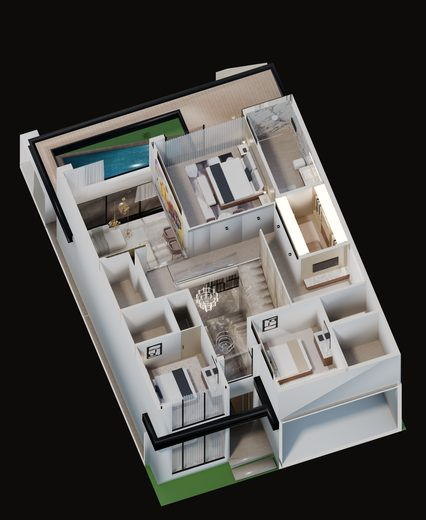
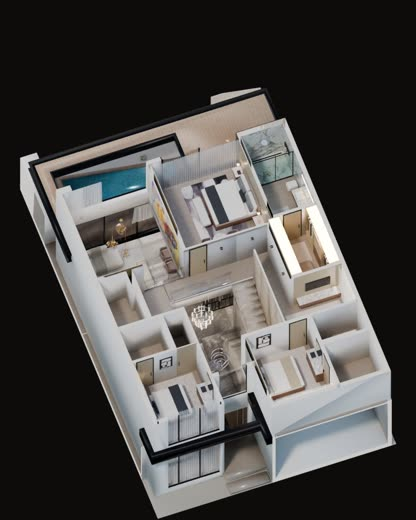
Maqueta giratoria también en la planta alta

diff --git a/media/maqueta/puntos.js b/media/maqueta/puntos.js
@@ -1,2 +1,2 @@
 // Posición de cada espacio en cada cuadro de la maqueta giratoria, en porcentaje [x, y]. Lo genera giro_web.py.
-window.MAQUETA_GIRO={"n":40,"baja":[{"hall":[50.08,62.8],"sala":[33.54,46.1],"comedor":[47.24,41.8],"cocina":[60.44,37.59],"terraza":[40.26,25.72],"dormitorio-1":[43.47,75.33]},{"hall":[52.39,62.63],"sala":[33.04,48.38],"comedor":[45.8,42.28],"cocina":[58.07,36.33],"terraza":[36.0,27.34],"dormitorio-1":[48.13,75.91]},{"hall":[54.64,62.15],"sala":[32.95,50.69],"comedor":[44.45,42.94],"cocina":[55.5,35.4],"terraza":[32.08,29.52],"dormitorio-1":[52.83,75.84]},{"hall":[56.78,61.37],"sala":[33.29,53.0],"comedor":[43.25,43.78],"cocina":[52.8,34.84],"terraza":[28.6,32.2],"dormitorio-1":[57.46,75.14]},{"hall":[58.75,60.32],"sala":[34.04,55.22],"comedor":[42.21,44.77],"cocina":[50.03,34.65],"terraza":[25.64,35.32],"dormitorio-1":[61.91,73.82]},{"hall":[60.5,59.0],"sala":[35.18,57.32],"comedor":[41.36,45.89],"cocina":[47.25,34.83],"terraza":[23.29,38.8],"dormitorio-1":[66.07,71.91]},{"hall":[62.0,57.47],"sala":[36.68,59.24],"comedor":[40.72,47.11],"cocina":[44.55,35.39],"terraza":[21.6,42.55],"dormitorio-1":[69.83,69.47]},{"hall":[63.2,55.75],"sala":[38.51,60.93],"comedor":[40.32,48.41],"cocina":[41.97,36.31],"terraza":[20.6,46.49],"dormitorio-1":[73.1,66.54]},{"hall":[64.08,53.89],"sala":[40.63,62.35],"comedor":[40.15,49.74],"cocina":[39.6,37.57],"terraza":[20.33,50.52],"dormitorio-1":[75.8,63.21]},{"hall":[64.61,51.94],"sala":[42.98,63.47],"comedor":[40.22,51.08],"cocina":[37.48,39.13],"terraza":[20.79,54.53],"dormitorio-1":[77.87,59.55]},{"hall":[64.78,49.93],"sala":[45.5,64.25],"comedor":[40.54,52.39],"cocina":[35.67,40.96],"terraza":[21.97,58.43],"dormitorio-1":[79.25,55.66]},{"hall":[64.59,47.93],"sala":[48.13,64.69],"comedor":[41.08,53.64],"cocina":[34.21,43.01],"terraza":[23.83,62.13],"dormitorio-1":[79.92,51.62]},{"hall":[64.03,45.98],"sala":[50.8,64.76],"comedor":[41.85,54.8],"cocina":[33.15,45.23],"terraza":[26.35,65.52],"dormitorio-1":[79.84,47.55]},{"hall":[63.13,44.13],"sala":[53.46,64.47],"comedor":[42.82,55.85],"cocina":[32.49,47.58],"terraza":[29.44,68.54],"dormitorio-1":[79.03,43.54]},{"hall":[61.91,42.42],"sala":[56.03,63.82],"comedor":[43.96,56.75],"cocina":[32.27,49.98],"terraza":[33.04,71.09],"dormitorio-1":[77.51,39.68]},{"hall":[60.4,40.9],"sala":[58.45,62.84],"comedor":[45.26,57.48],"cocina":[32.49,52.38],"terraza":[37.06,73.13],"dormitorio-1":[75.3,36.08]},{"hall":[58.63,39.61],"sala":[60.67,61.53],"comedor":[46.67,58.03],"cocina":[33.13,54.72],"terraza":[41.4,74.6],"dormitorio-1":[72.48,32.83]},{"hall":[56.64,38.57],"sala":[62.62,59.95],"comedor":[48.16,58.39],"cocina":[34.19,56.95],"terraza":[45.95,75.46],"dormitorio-1":[69.1,29.99]},{"hall":[54.5,37.81],"sala":[64.26,58.11],"comedor":[49.7,58.53],"cocina":[35.64,59.01],"terraza":[50.6,75.7],"dormitorio-1":[65.25,27.65]},{"hall":[52.24,37.35],"sala":[65.55,56.08],"comedor":[51.24,58.47],"cocina":[37.45,60.84],"terraza":[55.23,75.3],"dormitorio-1":[61.03,25.86]},{"hall":[49.92,37.2],"sala":[66.46,53.9],"comedor":[52.76,58.2],"cocina":[39.56,62.41],"terraza":[59.74,74.28],"dormitorio-1":[56.53,24.67]},{"hall":[47.61,37.37],"sala":[66.96,51.62],"comedor":[54.2,57.72],"cocina":[41.93,63.67],"terraza":[64.0,72.66],"dormitorio-1":[51.87,24.09]},{"hall":[45.36,37.85],"sala":[67.05,49.31],"comedor":[55.55,57.06],"cocina":[44.5,64.6],"terraza":[67.92,70.48],"dormitorio-1":[47.17,24.16]},{"hall":[43.22,38.63],"sala":[66.71,47.0],"comedor":[56.75,56.22],"cocina":[47.2,65.16],"terraza":[71.4,67.8],"dormitorio-1":[42.54,24.86]},{"hall":[41.25,39.68],"sala":[65.96,44.78],"comedor":[57.79,55.23],"cocina":[49.97,65.35],"terraza":[74.36,64.68],"dormitorio-1":[38.09,26.18]},{"hall":[39.5,41.0],"sala":[64.82,42.68],"comedor":[58.64,54.11],"cocina":[52.75,65.17],"terraza":[76.71,61.2],"dormitorio-1":[33.93,28.09]},{"hall":[38.0,42.53],"sala":[63.32,40.76],"comedor":[59.28,52.89],"cocina":[55.45,64.61],"terraza":[78.4,57.45],"dormitorio-1":[30.17,30.53]},{"hall":[36.8,44.25],"sala":[61.49,39.07],"comedor":[59.68,51.59],"cocina":[58.03,63.69],"terraza":[79.4,53.51],"dormitorio-1":[26.9,33.46]},{"hall":[35.92,46.11],"sala":[59.37,37.65],"comedor":[59.85,50.26],"cocina":[60.4,62.43],"terraza":[79.67,49.48],"dormitorio-1":[24.2,36.79]},{"hall":[35.39,48.06],"sala":[57.02,36.53],"comedor":[59.78,48.92],"cocina":[62.52,60.87],"terraza":[79.21,45.47],"dormitorio-1":[22.13,40.45]},{"hall":[35.22,50.07],"sala":[54.5,35.75],"comedor":[59.46,47.61],"cocina":[64.33,59.04],"terraza":[78.03,41.57],"dormitorio-1":[20.75,44.34]},{"hall":[35.41,52.07],"sala":[51.87,35.31],"comedor":[58.92,46.36],"cocina":[65.79,56.99],"terraza":[76.17,37.87],"dormitorio-1":[20.08,48.38]},{"hall":[35.97,54.02],"sala":[49.2,35.24],"comedor":[58.15,45.2],"cocina":[66.85,54.77],"terraza":[73.65,34.48],"dormitorio-1":[20.16,52.45]},{"hall":[36.87,55.87],"sala":[46.54,35.53],"comedor":[57.18,44.15],"cocina":[67.51,52.42],"terraza":[70.56,31.46],"dormitorio-1":[20.97,56.46]},{"hall":[38.09,57.58],"sala":[43.97,36.18],"comedor":[56.04,43.25],"cocina":[67.73,50.02],"terraza":[66.96,28.91],"dormitorio-1":[22.49,60.32]},{"hall":[39.6,59.1],"sala":[41.55,37.16],"comedor":[54.74,42.52],"cocina":[67.51,47.62],"terraza":[62.94,26.87],"dormitorio-1":[24.7,63.92]},{"hall":[41.37,60.39],"sala":[39.33,38.47],"comedor":[53.33,41.97],"cocina":[66.87,45.28],"terraza":[58.6,25.4],"dormitorio-1":[27.52,67.17]},{"hall":[43.36,61.43],"sala":[37.38,40.05],"comedor":[51.84,41.61],"cocina":[65.81,43.05],"terraza":[54.05,24.54],"dormitorio-1":[30.9,70.01]},{"hall":[45.5,62.19],"sala":[35.74,41.89],"comedor":[50.3,41.47],"cocina":[64.36,40.99],"terraza":[49.4,24.3],"dormitorio-1":[34.75,72.35]},{"hall":[47.76,62.65],"sala":[34.45,43.92],"comedor":[48.76,41.53],"cocina":[62.55,39.16],"terraza":[44.77,24.7],"dormitorio-1":[38.97,74.14]}]};
+window.MAQUETA_GIRO={"n":40,"baja":[{"hall":[50.08,62.8],"sala":[33.54,46.1],"comedor":[47.24,41.8],"cocina":[60.44,37.59],"terraza":[40.26,25.72],"dormitorio-1":[43.47,75.33]},{"hall":[52.39,62.63],"sala":[33.04,48.38],"comedor":[45.8,42.28],"cocina":[58.07,36.33],"terraza":[36.0,27.34],"dormitorio-1":[48.13,75.91]},{"hall":[54.64,62.15],"sala":[32.95,50.69],"comedor":[44.45,42.94],"cocina":[55.5,35.4],"terraza":[32.08,29.52],"dormitorio-1":[52.83,75.84]},{"hall":[56.78,61.37],"sala":[33.29,53.0],"comedor":[43.25,43.78],"cocina":[52.8,34.84],"terraza":[28.6,32.2],"dormitorio-1":[57.46,75.14]},{"hall":[58.75,60.32],"sala":[34.04,55.22],"comedor":[42.21,44.77],"cocina":[50.03,34.65],"terraza":[25.64,35.32],"dormitorio-1":[61.91,73.82]},{"hall":[60.5,59.0],"sala":[35.18,57.32],"comedor":[41.36,45.89],"cocina":[47.25,34.83],"terraza":[23.29,38.8],"dormitorio-1":[66.07,71.91]},{"hall":[62.0,57.47],"sala":[36.68,59.24],"comedor":[40.72,47.11],"cocina":[44.55,35.39],"terraza":[21.6,42.55],"dormitorio-1":[69.83,69.47]},{"hall":[63.2,55.75],"sala":[38.51,60.93],"comedor":[40.32,48.41],"cocina":[41.97,36.31],"terraza":[20.6,46.49],"dormitorio-1":[73.1,66.54]},{"hall":[64.08,53.89],"sala":[40.63,62.35],"comedor":[40.15,49.74],"cocina":[39.6,37.57],"terraza":[20.33,50.52],"dormitorio-1":[75.8,63.21]},{"hall":[64.61,51.94],"sala":[42.98,63.47],"comedor":[40.22,51.08],"cocina":[37.48,39.13],"terraza":[20.79,54.53],"dormitorio-1":[77.87,59.55]},{"hall":[64.78,49.93],"sala":[45.5,64.25],"comedor":[40.54,52.39],"cocina":[35.67,40.96],"terraza":[21.97,58.43],"dormitorio-1":[79.25,55.66]},{"hall":[64.59,47.93],"sala":[48.13,64.69],"comedor":[41.08,53.64],"cocina":[34.21,43.01],"terraza":[23.83,62.13],"dormitorio-1":[79.92,51.62]},{"hall":[64.03,45.98],"sala":[50.8,64.76],"comedor":[41.85,54.8],"cocina":[33.15,45.23],"terraza":[26.35,65.52],"dormitorio-1":[79.84,47.55]},{"hall":[63.13,44.13],"sala":[53.46,64.47],"comedor":[42.82,55.85],"cocina":[32.49,47.58],"terraza":[29.44,68.54],"dormitorio-1":[79.03,43.54]},{"hall":[61.91,42.42],"sala":[56.03,63.82],"comedor":[43.96,56.75],"cocina":[32.27,49.98],"terraza":[33.04,71.09],"dormitorio-1":[77.51,39.68]},{"hall":[60.4,40.9],"sala":[58.45,62.84],"comedor":[45.26,57.48],"cocina":[32.49,52.38],"terraza":[37.06,73.13],"dormitorio-1":[75.3,36.08]},{"hall":[58.63,39.61],"sala":[60.67,61.53],"comedor":[46.67,58.03],"cocina":[33.13,54.72],"terraza":[41.4,74.6],"dormitorio-1":[72.48,32.83]},{"hall":[56.64,38.57],"sala":[62.62,59.95],"comedor":[48.16,58.39],"cocina":[34.19,56.95],"terraza":[45.95,75.46],"dormitorio-1":[69.1,29.99]},{"hall":[54.5,37.81],"sala":[64.26,58.11],"comedor":[49.7,58.53],"cocina":[35.64,59.01],"terraza":[50.6,75.7],"dormitorio-1":[65.25,27.65]},{"hall":[52.24,37.35],"sala":[65.55,56.08],"comedor":[51.24,58.47],"cocina":[37.45,60.84],"terraza":[55.23,75.3],"dormitorio-1":[61.03,25.86]},{"hall":[49.92,37.2],"sala":[66.46,53.9],"comedor":[52.76,58.2],"cocina":[39.56,62.41],"terraza":[59.74,74.28],"dormitorio-1":[56.53,24.67]},{"hall":[47.61,37.37],"sala":[66.96,51.62],"comedor":[54.2,57.72],"cocina":[41.93,63.67],"terraza":[64.0,72.66],"dormitorio-1":[51.87,24.09]},{"hall":[45.36,37.85],"sala":[67.05,49.31],"comedor":[55.55,57.06],"cocina":[44.5,64.6],"terraza":[67.92,70.48],"dormitorio-1":[47.17,24.16]},{"hall":[43.22,38.63],"sala":[66.71,47.0],"comedor":[56.75,56.22],"cocina":[47.2,65.16],"terraza":[71.4,67.8],"dormitorio-1":[42.54,24.86]},{"hall":[41.25,39.68],"sala":[65.96,44.78],"comedor":[57.79,55.23],"cocina":[49.97,65.35],"terraza":[74.36,64.68],"dormitorio-1":[38.09,26.18]},{"hall":[39.5,41.0],"sala":[64.82,42.68],"comedor":[58.64,54.11],"cocina":[52.75,65.17],"terraza":[76.71,61.2],"dormitorio-1":[33.93,28.09]},{"hall":[38.0,42.53],"sala":[63.32,40.76],"comedor":[59.28,52.89],"cocina":[55.45,64.61],"terraza":[78.4,57.45],"dormitorio-1":[30.17,30.53]},{"hall":[36.8,44.25],"sala":[61.49,39.07],"comedor":[59.68,51.59],"cocina":[58.03,63.69],"terraza":[79.4,53.51],"dormitorio-1":[26.9,33.46]},{"hall":[35.92,46.11],"sala":[59.37,37.65],"comedor":[59.85,50.26],"cocina":[60.4,62.43],"terraza":[79.67,49.48],"dormitorio-1":[24.2,36.79]},{"hall":[35.39,48.06],"sala":[57.02,36.53],"comedor":[59.78,48.92],"cocina":[62.52,60.87],"terraza":[79.21,45.47],"dormitorio-1":[22.13,40.45]},{"hall":[35.22,50.07],"sala":[54.5,35.75],"comedor":[59.46,47.61],"cocina":[64.33,59.04],"terraza":[78.03,41.57],"dormitorio-1":[20.75,44.34]},{"hall":[35.41,52.07],"sala":[51.87,35.31],"comedor":[58.92,46.36],"cocina":[65.79,56.99],"terraza":[76.17,37.87],"dormitorio-1":[20.08,48.38]},{"hall":[35.97,54.02],"sala":[49.2,35.24],"comedor":[58.15,45.2],"cocina":[66.85,54.77],"terraza":[73.65,34.48],"dormitorio-1":[20.16,52.45]},{"hall":[36.87,55.87],"sala":[46.54,35.53],"comedor":[57.18,44.15],"cocina":[67.51,52.42],"terraza":[70.56,31.46],"dormitorio-1":[20.97,56.46]},{"hall":[38.09,57.58],"sala":[43.97,36.18],"comedor":[56.04,43.25],"cocina":[67.73,50.02],"terraza":[66.96,28.91],"dormitorio-1":[22.49,60.32]},{"hall":[39.6,59.1],"sala":[41.55,37.16],"comedor":[54.74,42.52],"cocina":[67.51,47.62],"terraza":[62.94,26.87],"dormitorio-1":[24.7,63.92]},{"hall":[41.37,60.39],"sala":[39.33,38.47],"comedor":[53.33,41.97],"cocina":[66.87,45.28],"terraza":[58.6,25.4],"dormitorio-1":[27.52,67.17]},{"hall":[43.36,61.43],"sala":[37.38,40.05],"comedor":[51.84,41.61],"cocina":[65.81,43.05],"terraza":[54.05,24.54],"dormitorio-1":[30.9,70.01]},{"hall":[45.5,62.19],"sala":[35.74,41.89],"comedor":[50.3,41.47],"cocina":[64.36,40.99],"terraza":[49.4,24.3],"dormitorio-1":[34.75,72.35]},{"hall":[47.76,62.65],"sala":[34.45,43.92],"comedor":[48.76,41.53],"cocina":[62.55,39.16],"terraza":[44.77,24.7],"dormitorio-1":[38.97,74.14]}],"alta":[{"puente":[49.02,52.16],"dormitorio-master":[50.7,40.1],"bano-master":[63.49,35.68],"vestidor-master":[68.48,49.32],"sala-tv":[70.24,59.32],"dormitorio-2":[44.04,76.71],"dormitorio-3":[65.97,72.44]},{"puente":[49.42,52.27],"dormitorio-master":[48.91,40.13],"bano-master":[60.74,34.03],"vestidor-master":[68.13,46.82],"sala-tv":[71.67,56.47],"dormitorio-2":[48.94,77.19],"dormitorio-3":[69.83,70.0]},{"puente":[49.84,52.32],"dormitorio-master":[47.14,40.4],"bano-master":[57.72,32.77],"vestidor-master":[67.33,44.41],"sala-tv":[72.58,53.45],"dormitorio-2":[53.87,77.0],"dormitorio-3":[73.2,67.06]},{"puente":[50.26,52.31],"dormitorio-master":[45.44,40.9],"bano-master":[54.51,31.94],"vestidor-master":[66.11,42.13],"sala-tv":[72.92,50.35],"dormitorio-2":[58.69,76.14],"dormitorio-3":[75.99,63.71]},{"puente":[50.67,52.25],"dormitorio-master":[43.85,41.63],"bano-master":[51.2,31.55],"vestidor-master":[64.49,40.04],"sala-tv":[72.7,47.24],"dormitorio-2":[63.31,74.64],"dormitorio-3":[78.15,60.02]},{"puente":[51.07,52.13],"dormitorio-master":[42.42,42.57],"bano-master":[47.85,31.61],"vestidor-master":[62.51,38.2],"sala-tv":[71.92,44.2],"dormitorio-2":[67.6,72.53],"dormitorio-3":[79.61,56.08]},{"puente":[51.44,51.95],"dormitorio-master":[41.17,43.69],"bano-master":[44.55,32.13],"vestidor-master":[60.22,36.65],"sala-tv":[70.61,41.3],"dormitorio-2":[71.45,69.87],"dormitorio-3":[80.35,52.0]},{"puente":[51.78,51.74],"dormitorio-master":[40.14,44.96],"bano-master":[41.39,33.09],"vestidor-master":[57.69,35.43],"sala-tv":[68.78,38.62],"dormitorio-2":[74.78,66.72],"dormitorio-3":[80.33,47.86]},{"puente":[52.07,51.47],"dormitorio-master":[39.35,46.36],"bano-master":[38.44,34.46],"vestidor-master":[54.96,34.57],"sala-tv":[66.49,36.21],"dormitorio-2":[77.49,63.16],"dormitorio-3":[79.57,43.78]},{"puente":[52.31,51.17],"dormitorio-master":[38.82,47.85],"bano-master":[35.78,36.22],"vestidor-master":[52.11,34.09],"sala-tv":[63.8,34.15],"dormitorio-2":[79.53,59.27],"dormitorio-3":[78.09,39.85]},{"puente":[52.49,50.85],"dormitorio-master":[38.57,49.39],"bano-master":[33.47,38.32],"vestidor-master":[49.21,34.0],"sala-tv":[60.77,32.47],"dormitorio-2":[80.84,55.16],"dormitorio-3":[75.91,36.17]},{"puente":[52.62,50.5],"dormitorio-master":[38.6,50.95],"bano-master":[31.56,40.7],"vestidor-master":[46.33,34.3],"sala-tv":[57.47,31.23],"dormitorio-2":[81.39,50.92],"dormitorio-3":[73.09,32.83]},{"puente":[52.67,50.14],"dormitorio-master":[38.91,52.48],"bano-master":[30.11,43.31],"vestidor-master":[43.54,34.99],"sala-tv":[53.99,30.45],"dormitorio-2":[81.17,46.65],"dormitorio-3":[69.7,29.91]},{"puente":[52.67,49.77],"dormitorio-master":[39.5,53.95],"bano-master":[29.14,46.09],"vestidor-master":[40.91,36.05],"sala-tv":[50.4,30.15],"dormitorio-2":[80.18,42.47],"dormitorio-3":[65.83,27.49]},{"puente":[52.59,49.42],"dormitorio-master":[40.34,55.33],"bano-master":[28.69,48.96],"vestidor-master":[38.5,37.46],"sala-tv":[46.81,30.34],"dormitorio-2":[78.45,38.47],"dormitorio-3":[61.57,25.62]},{"puente":[52.45,49.07],"dormitorio-master":[41.42,56.57],"bano-master":[28.77,51.86],"vestidor-master":[36.38,39.17],"sala-tv":[43.3,31.01],"dormitorio-2":[76.02,34.76],"dormitorio-3":[57.03,24.35]},{"puente":[52.26,48.75],"dormitorio-master":[42.71,57.65],"bano-master":[29.37,54.72],"vestidor-master":[34.59,41.15],"sala-tv":[39.95,32.15],"dormitorio-2":[72.95,31.42],"dormitorio-3":[52.31,23.72]},{"puente":[52.0,48.46],"dormitorio-master":[44.18,58.54],"bano-master":[30.47,57.45],"vestidor-master":[33.18,43.34],"sala-tv":[36.85,33.74],"dormitorio-2":[69.31,28.54],"dormitorio-3":[47.53,23.73]},{"puente":[51.7,48.21],"dormitorio-master":[45.8,59.23],"bano-master":[32.06,60.01],"vestidor-master":[32.18,45.7],"sala-tv":[34.08,35.72],"dormitorio-2":[65.19,26.19],"dormitorio-3":[42.82,24.39]},{"puente":[51.36,48.0],"dormitorio-master":[47.52,59.68],"bano-master":[34.09,62.32],"vestidor-master":[31.63,48.17],"sala-tv":[31.69,38.05],"dormitorio-2":[60.71,24.43],"dormitorio-3":[38.28,25.68]},{"puente":[50.98,47.84],"dormitorio-master":[49.3,59.9],"bano-master":[36.51,64.32],"vestidor-master":[31.52,50.68],"sala-tv":[29.76,40.68],"dormitorio-2":[55.96,23.29],"dormitorio-3":[34.03,27.56]},{"puente":[50.58,47.73],"dormitorio-master":[51.09,59.87],"bano-master":[39.26,65.97],"vestidor-master":[31.87,53.18],"sala-tv":[28.33,43.53],"dormitorio-2":[51.06,22.81],"dormitorio-3":[30.17,30.0]},{"puente":[50.16,47.68],"dormitorio-master":[52.86,59.6],"bano-master":[42.28,67.23],"vestidor-master":[32.67,55.59],"sala-tv":[27.42,46.55],"dormitorio-2":[46.13,23.0],"dormitorio-3":[26.8,32.94]},{"puente":[49.74,47.69],"dormitorio-master":[54.56,59.1],"bano-master":[45.49,68.06],"vestidor-master":[33.89,57.87],"sala-tv":[27.08,49.65],"dormitorio-2":[41.31,23.86],"dormitorio-3":[24.01,36.29]},{"puente":[49.33,47.75],"dormitorio-master":[56.15,58.37],"bano-master":[48.8,68.45],"vestidor-master":[35.51,59.96],"sala-tv":[27.3,52.76],"dormitorio-2":[36.69,25.36],"dormitorio-3":[21.85,39.98]},{"puente":[48.93,47.87],"dormitorio-master":[57.58,57.43],"bano-master":[52.15,68.39],"vestidor-master":[37.49,61.8],"sala-tv":[28.08,55.8],"dormitorio-2":[32.4,27.47],"dormitorio-3":[20.39,43.92]},{"puente":[48.56,48.05],"dormitorio-master":[58.83,56.31],"bano-master":[55.45,67.87],"vestidor-master":[39.78,63.35],"sala-tv":[29.39,58.7],"dormitorio-2":[28.55,30.13],"dormitorio-3":[19.65,48.0]},{"puente":[48.22,48.26],"dormitorio-master":[59.86,55.04],"bano-master":[58.61,66.91],"vestidor-master":[42.31,64.57],"sala-tv":[31.22,61.38],"dormitorio-2":[25.22,33.28],"dormitorio-3":[19.67,52.14]},{"puente":[47.93,48.53],"dormitorio-master":[60.65,53.64],"bano-master":[61.56,65.54],"vestidor-master":[45.04,65.43],"sala-tv":[33.51,63.79],"dormitorio-2":[22.51,36.84],"dormitorio-3":[20.43,56.22]},{"puente":[47.69,48.83],"dormitorio-master":[61.18,52.15],"bano-master":[64.22,63.78],"vestidor-master":[47.89,65.91],"sala-tv":[36.2,65.85],"dormitorio-2":[20.47,40.73],"dormitorio-3":[21.91,60.15]},{"puente":[47.51,49.15],"dormitorio-master":[61.43,50.61],"bano-master":[66.53,61.68],"vestidor-master":[50.79,66.0],"sala-tv":[39.23,67.53],"dormitorio-2":[19.16,44.84],"dormitorio-3":[24.09,63.83]},{"puente":[47.38,49.5],"dormitorio-master":[61.4,49.05],"bano-master":[68.44,59.3],"vestidor-master":[53.67,65.7],"sala-tv":[42.53,68.77],"dormitorio-2":[18.61,49.08],"dormitorio-3":[26.91,67.17]},{"puente":[47.33,49.86],"dormitorio-master":[61.09,47.52],"bano-master":[69.89,56.69],"vestidor-master":[56.46,65.01],"sala-tv":[46.01,69.55],"dormitorio-2":[18.83,53.35],"dormitorio-3":[30.3,70.09]},{"puente":[47.33,50.23],"dormitorio-master":[60.5,46.05],"bano-master":[70.86,53.91],"vestidor-master":[59.09,63.95],"sala-tv":[49.6,69.85],"dormitorio-2":[19.82,57.53],"dormitorio-3":[34.17,72.51]},{"puente":[47.41,50.58],"dormitorio-master":[59.66,44.67],"bano-master":[71.31,51.04],"vestidor-master":[61.5,62.54],"sala-tv":[53.19,69.66],"dormitorio-2":[21.55,61.53],"dormitorio-3":[38.43,74.38]},{"puente":[47.55,50.93],"dormitorio-master":[58.58,43.43],"bano-master":[71.23,48.14],"vestidor-master":[63.62,60.83],"sala-tv":[56.7,68.99],"dormitorio-2":[23.98,65.24],"dormitorio-3":[42.97,75.65]},{"puente":[47.74,51.25],"dormitorio-master":[57.29,42.35],"bano-master":[70.63,45.28],"vestidor-master":[65.41,58.85],"sala-tv":[60.05,67.85],"dormitorio-2":[27.05,68.58],"dormitorio-3":[47.69,76.28]},{"puente":[48.0,51.54],"dormitorio-master":[55.82,41.46],"bano-master":[69.53,42.55],"vestidor-master":[66.82,56.66],"sala-tv":[63.15,66.26],"dormitorio-2":[30.69,71.46],"dormitorio-3":[52.47,76.27]},{"puente":[48.3,51.79],"dormitorio-master":[54.2,40.77],"bano-master":[67.94,39.99],"vestidor-master":[67.82,54.3],"sala-tv":[65.92,64.28],"dormitorio-2":[34.81,73.81],"dormitorio-3":[57.18,75.61]},{"puente":[48.64,52.0],"dormitorio-master":[52.48,40.32],"bano-master":[65.91,37.68],"vestidor-master":[68.37,51.83],"sala-tv":[68.31,61.95],"dormitorio-2":[39.29,75.57],"dormitorio-3":[61.72,74.32]}]};

diff --git a/index.html b/index.html
@@ -352,7 +352,7 @@ body.cine-abierto .cine{opacity:1;visibility:visible;transition:opacity .4s ease
   </div>
 </div>
 
-<script src="media/maqueta/puntos.js?v=2"></script>
+<script src="media/maqueta/puntos.js?v=3"></script>
 <script>
 /* ═════════ Contenido: lo único que hay que tocar para cambiar textos, vistas o enlaces ═════════ */
 // Recorrido en video. «variantes» = la misma vista al atardecer y de noche; «una» = se reproduce una sola vez.
@@ -403,7 +403,7 @@ const MAQUETA = {
   baja: { 'hall':[47.23,55.18], 'sala':[28.67,38.97], 'comedor':[52.12,42.95], 'cocina':[65.93,32.28], 'terraza':[41.07,24.99], 'dormitorio-1':[44.47,68.4] },
   alta: { 'puente':[40.29,50.61], 'dormitorio-master':[44.7,36.39], 'bano-master':[65.97,33.42], 'vestidor-master':[71.48,42.21], 'sala-tv':[75.25,54.84], 'dormitorio-2':[45.21,68.78], 'dormitorio-3':[71.78,62.93] },
 };
-const VERSION = '8';   // se cambia al actualizar las imágenes 360 para que el navegador no use las viejas
+const VERSION = '9';   // se cambia al actualizar las imágenes 360 para que el navegador no use las viejas
 
 /* ═════════ Utilidades ═════════ */
 const $ = s => document.querySelector(s);
